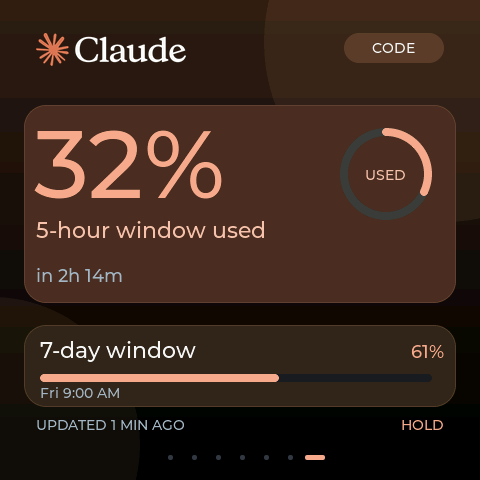
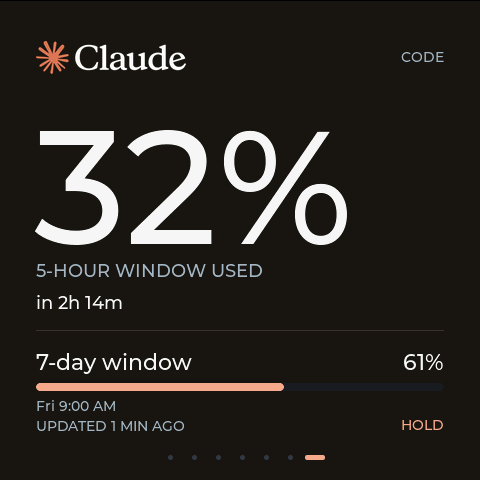
Refresh all seven AMOLED previews and commissioning evidence

diff --git a/content/caseStudies.ts b/content/caseStudies.ts
@@ -148,25 +148,27 @@ export const PROJECT_CASE_STUDIES: ProjectCaseStudy[] = [
     role: 'Interface design, native C++ firmware, display integration, data transport, clock persistence, and commissioning.',
     problem: 'Carry the useful parts of the wide e-paper dashboard onto a small square screen without shrinking every widget into something too small to read.',
     built: 'Built seven native LVGL views for clock, weather, Runna, training, the NYC Marathon, time progress, and Claude usage. Each fills the 480 × 480 canvas, with its own color hierarchy and recognizable service artwork.',
-    outcome: 'A working ESP32-C6 firmware build with a rotating widget carousel, a verified USB data path, and a clock restored from the onboard RTC after a restart. Wireless commissioning remains separate from the verified USB path.',
+    outcome: 'A commissioned ESP32-C6 dashboard with a rotating widget carousel, saved Wi-Fi reconnect and live updates on the current LAN, a verified USB data path, and clock restoration from the onboard RTC after a restart.',
     proof: 'The native interface was flashed to the connected board and all seven display-draw captures were checked. The website tour runs the same UI design with curated example data; it is a visualization, not a photograph or live device feed.',
-    metrics: ['480 × 480 canvas', 'Seven full-screen widgets', 'ESP32-C6 + LVGL', '17 bridge checks passed'],
+    metrics: ['480 × 480 canvas', 'Seven full-screen widgets', '66 bridge checks passed', 'Three-minute source polling'],
     architecture: [
       'ESP-IDF C++ firmware with LVGL rendering, a CO5300 QSPI display, and CST9220 touch-controller initialization',
-      'A 24-line RGB565 draw buffer keeps rendering within the microcontroller memory budget',
-      'An allowlisted JSON summary bridge supplies time, weather, training, fundraising, and usage states over USB',
+      'Two 24-line RGB565 draw buffers keep rendering within the microcontroller memory budget',
+      'An allowlisted JSON summary bridge supplies time, weather, training, fundraising, and usage states over USB and local HTTP',
       'UTC is saved to the PCF85063 RTC; startup rejects an uninitialized clock or oscillator-stop flag',
     ],
     validation: [
       'All seven native display-draw captures were reconstructed from the connected board on September 29, 2026',
-      '17 focused bridge checks passed, covering unknown values, confirmed zero, stale caches, date boundaries, and USB reconnect behavior',
-      'Repeated USB acknowledgments and device status were verified through the installed host login service',
-      'RTC restoration after a board restart was observed; battery runtime, physical touch gestures, and autonomous Wi-Fi were not established by these checks',
+      '66 focused bridge checks passed, covering unknown values, confirmed zero, stale caches, date boundaries, private-source refresh, and reconnect behavior',
+      'Two complete five-source polling cycles were observed at 179.95–180.34-second intervals',
+      'On-device horizontal transitions produced 13 frames over 498–516 milliseconds at brightness 100',
+      'Saved Wi-Fi reconnect, live updates on the current LAN, USB acknowledgments, and RTC clock restoration after a restart were verified',
     ],
     constraints: [
       'A 2.16-inch square canvas needs one clear focal point at a time, rather than a compressed copy of the wide e-paper layout.',
       'The ESP32-C6 memory budget rules out treating the display like a desktop browser; draw buffers and capture transport must stay bounded.',
       'Unavailable measurements must stay unknown, and cached personal summaries must remain visibly stale rather than appearing current.',
+      'Private feeds require the Mac bridge to remain awake and reachable. Battery runtime, the office network, and physical touch gestures remain unverified.',
     ],
     decisions: [
       {
@@ -183,10 +185,10 @@ export const PROJECT_CASE_STUDIES: ProjectCaseStudy[] = [
       },
       {
         title: 'Verify the transport',
-        detail: 'USB acknowledgments, bounded packets, reconnect settling, and RTC restoration provide inspectable commissioning evidence before claiming independent wireless operation.',
+        detail: 'USB acknowledgments, local HTTP updates, saved Wi-Fi reconnect, and RTC restoration were checked on the connected device. Private feeds still depend on the reachable Mac bridge.',
       },
     ],
-    tech: ['C++', 'ESP-IDF', 'ESP32-C6', 'LVGL 9', 'QSPI', 'Python', 'USB Serial/JTAG', 'RTC'],
+    tech: ['C++', 'ESP-IDF', 'ESP32-C6', 'LVGL 9', 'QSPI', 'Python', 'USB Serial/JTAG', 'Wi-Fi', 'HTTP', 'RTC'],
     link: '#amoled-interface',
     linkLabel: 'Explore the seven screens',
     icon: '/images/amoled/runna.webp',

diff --git a/content/projectEvidence.ts b/content/projectEvidence.ts
@@ -13,11 +13,11 @@ const wyzecar = 'https://github.com/Andy-Sottiaux/WYZECAR/blob/d669b8876eba341eb
 
 export const PROJECT_EVIDENCE: Record<string, Evidence> = {
   'amoled-dashboard': {
-    status: 'Commissioned over USB',
+    status: 'Verified USB + local Wi-Fi',
     reviewed: '2026-09-29',
     basis: 'Native firmware + connected-board checks',
-    result: 'On September 29, 2026, all seven native display-draw captures were checked on the connected ESP32-C6 board, 17 focused bridge tests passed, repeated USB acknowledgments were observed, and the onboard RTC restored the clock after a restart.',
-    limitation: 'The website images are rendered by the actual LVGL UI with curated example data, inside a device visualization. They are not photographs, live readings, or the private device cache. Draw captures do not establish optical display quality. Battery runtime, physical swipe/tap behavior, and autonomous Wi-Fi operation have not been verified in this record.',
+    result: 'On September 29, 2026, all seven live native display-draw captures were checked on the connected ESP32-C6 board and 66 focused bridge checks passed. Saved Wi-Fi reconnect, live updates on the current LAN, USB acknowledgments, and RTC clock restoration after a restart were verified. Two five-source polling cycles took 179.95–180.34 seconds; horizontal transitions produced 13 frames over 498–516 milliseconds at brightness 100.',
+    limitation: 'The website images are rendered by the actual LVGL UI with curated example data, inside a device visualization. They are not photographs, live readings, or the private device cache. Draw captures do not establish optical display quality. Private feeds require the Mac bridge to remain awake and reachable. Battery runtime, the office network, and physical swipe/tap behavior remain unverified.',
     tradeoff: {
       question: 'Shrink the whole dashboard, or give each widget the screen?',
       choice: 'Use seven full-screen views with a shared carousel, clear visual hierarchy, and explicit data freshness.',

diff --git a/components/AmoledProductViewer.tsx b/components/AmoledProductViewer.tsx
@@ -7,8 +7,8 @@ import { useReducedMotion } from '@/lib/useReducedMotion'
 import styles from './AmoledProductViewer.module.css'
 
 const WIDGETS = [
-  { id: 'clock', name: 'Clock', color: '#79d6ff', description: 'Time, a greeting, and the progress of your day.' },
-  { id: 'weather', name: 'Weather', color: '#ffd46b', description: 'Conditions, temperature, and three colorful detail cards.' },
+  { id: 'clock', name: 'Clock', color: '#79d6ff', description: 'Large, clear time with the date and AM/PM.' },
+  { id: 'weather', name: 'Weather', color: '#ffd46b', description: 'Temperature, conditions, and the details for your day.' },
   { id: 'runna', name: 'Runna', color: '#99ff77', description: 'The next workout, mileage, and a weekly target.' },
   { id: 'training', name: 'Training', color: '#ff713e', description: 'Strava mileage and run totals in a single glance.' },
   { id: 'nyc-marathon', name: 'NYC Marathon', color: '#47d6f3', description: 'A race countdown and Team for Kids fundraising progress.' },

diff --git a/tests/amoled.spec.ts b/tests/amoled.spec.ts
@@ -29,8 +29,8 @@ test('explores all seven firmware views while keeping the example-data boundary 
 
   await expect(page.locator('link[rel="canonical"]')).toHaveAttribute('href', 'https://andysottiaux.com/work/amoled-dashboard')
   await expect(page.locator('meta[name="robots"]')).toHaveAttribute('content', 'index, follow')
-  await expect(page.getByText('Commissioned over USB', { exact: true })).toBeVisible()
-  await expect(page.getByText(/autonomous Wi-Fi operation have not been verified/)).toBeVisible()
+  await expect(page.getByText('Verified USB + local Wi-Fi', { exact: true })).toBeVisible()
+  await expect(page.getByText(/Private feeds require the Mac bridge to remain awake and reachable\. Battery runtime, the office network, and physical swipe\/tap behavior remain unverified/)).toBeVisible()
 })
 
 test('navigates the AMOLED widgets with keys independently of the outer Spotlight rail', async ({ page }) => {

diff --git a/docs/amoled-assets.md b/docs/amoled-assets.md
@@ -4,7 +4,9 @@ All widget readings use the curated fictional example payload in `docs/amoled-ex
 
 The frames are `clock.webp`, `weather.webp`, `runna.webp`, `training.webp`, `nyc-marathon.webp`, `time-progress.webp`, and `claude-usage.webp`. Every WebP uses lossless encoding, preserves the renderer's RGB pixels exactly, and was reopened to verify both pixel equality and 480 × 480 dimensions. File sizes and hashes are recorded in `docs/amoled-asset-manifest.json`.
 
-The native UI includes the current plain Strava wordmark, official Runna app icon, official TCS NYC Marathon artwork, and Claude wordmark. Logo provenance and conversion are retained in the separate hardware project's `assets/source`, `assets/brand_manifest.json`, and `scripts/build_brand_assets.py`.
+All seven images were refreshed for the approved clean firmware layouts, with larger type, flat backgrounds, and restrained supporting details. Their manifest entries record the native firmware commit, capture time, and refreshed example timestamp; the shared renderer entry records UI/font/artwork source hashes. The readings still come from the same fictional payload.
+
+The native UI includes the official Runna app mark, Strava two-chevron app symbol, TCS NYC Marathon artwork, and Claude wordmark. The compact Runna and Strava symbols come directly from their current official websites, with no invented logo geometry. Logo provenance and conversion are retained in the separate hardware project's `assets/source`, `assets/brand_manifest.json`, and `scripts/build_brand_assets.py`.
 
 To reproduce the native frames with the hardware workspace installed:
 
@@ -14,4 +16,4 @@ sh /Users/andysottiaux/Dev/playground/amoled-dashboard-216/scripts/render_local.
   /Users/andysottiaux/Dev/playground/amoled-dashboard-216/runtime/website-example-renders
 ```
 
-Refresh only the example payload's `ts` when regenerating so its demonstrated source freshness does not become stale relative to the simulator's local clock. Convert the resulting RGB PNGs with Pillow's `save(..., format='WEBP', lossless=True, method=6)` and verify decoded RGB equality. Website device frames and interaction controls are CSS supplied by the portfolio UI, independent of the firmware capture pixels.
+Refresh only the example payload's `ts` in a temporary copy when regenerating so its demonstrated source freshness does not become stale relative to the simulator's local clock. Pass that copy as the renderer input; preserve the committed fictional readings. Convert the resulting RGB PNGs with Pillow's `save(..., format='WEBP', lossless=True, method=6)` and verify decoded RGB equality. Website device frames and interaction controls are CSS supplied by the portfolio UI, independent of the firmware capture pixels.
